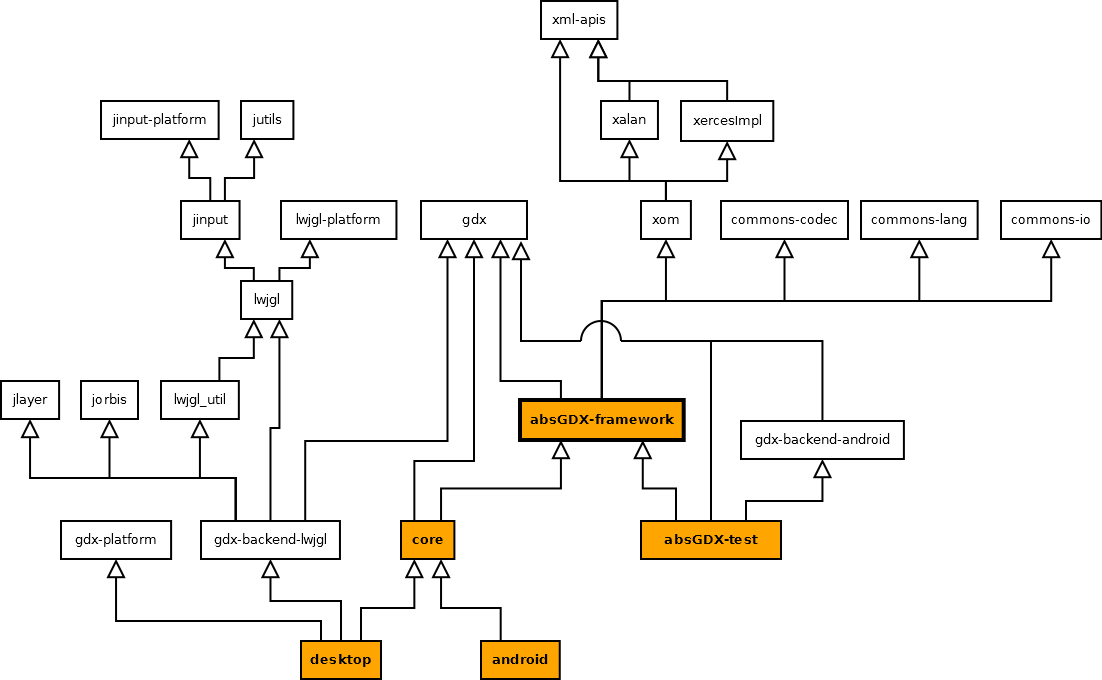
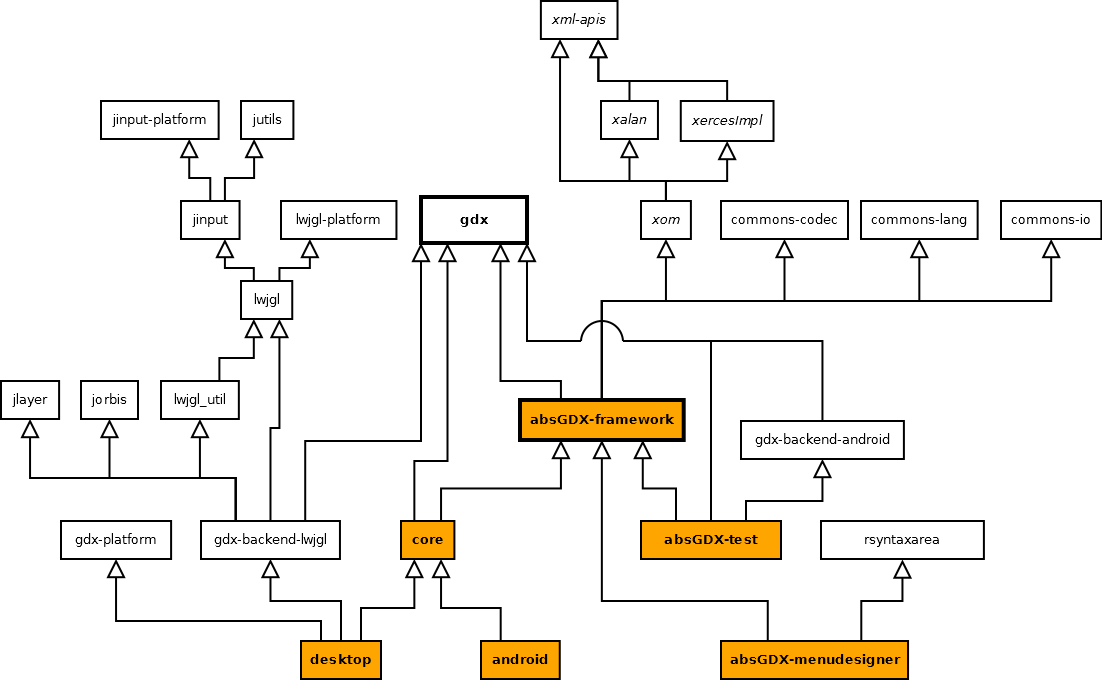
Updated gradle.tex (new graphic, new statictsics)

diff --git a/content/gradle.tex b/content/gradle.tex
@@ -21,7 +21,7 @@ absGDX ist ein Multiprojekt, dies bedeutet, dass es  aus mehreren Gradle Projekt
 
 In der folgenden Grafik kann man unseren Abhängigkeitsbaum sehen. Die orange markierten Felder sind unsere Projekte und die anderen sind externe Abhängigkeiten.
 
-\quickfigure{Gradle Dependency Graph absGDX}{dependency-graph-gradle.png}{1.0} %TODO update me
+\quickfigure{Gradle Dependency Graph absGDX}{dependency-graph-gradle.png}{1.0}
 
 Das Projekt \keyword{absGDX-framework} ist hierbei das eigentliche Framework das wir entwickeln. \keyword{asGDX-test} ist das Testprojekt, es enthält alle Unit-tests für das Framework.
 \keyword{absGDX-core} und die beiden Plattformprojekte \keyword{desktop} und \keyword{android} sind zum testen und debuggen. Wird das Framework später für ein Projekt benutzt kommen in diese Projekte der eigentliche Code und \keyword{absGDX-framework} wird als Dependency eingebunden. Während wir jedoch das Framework noch entwickeln sind diese Projekte notwendig damit wir es auch ausprobieren können.

diff --git a/main.tex b/main.tex
@@ -42,7 +42,7 @@
 %########################
 
 \newpage 
-\bibliographystyle{plain} %TODO meist macht es kein sinn die die autoren hier verschandelt werden -.- vorallem nicht bei den websiten
+\bibliographystyle{plain}
 \bibliography{mainbib}
 
 \end{document}
